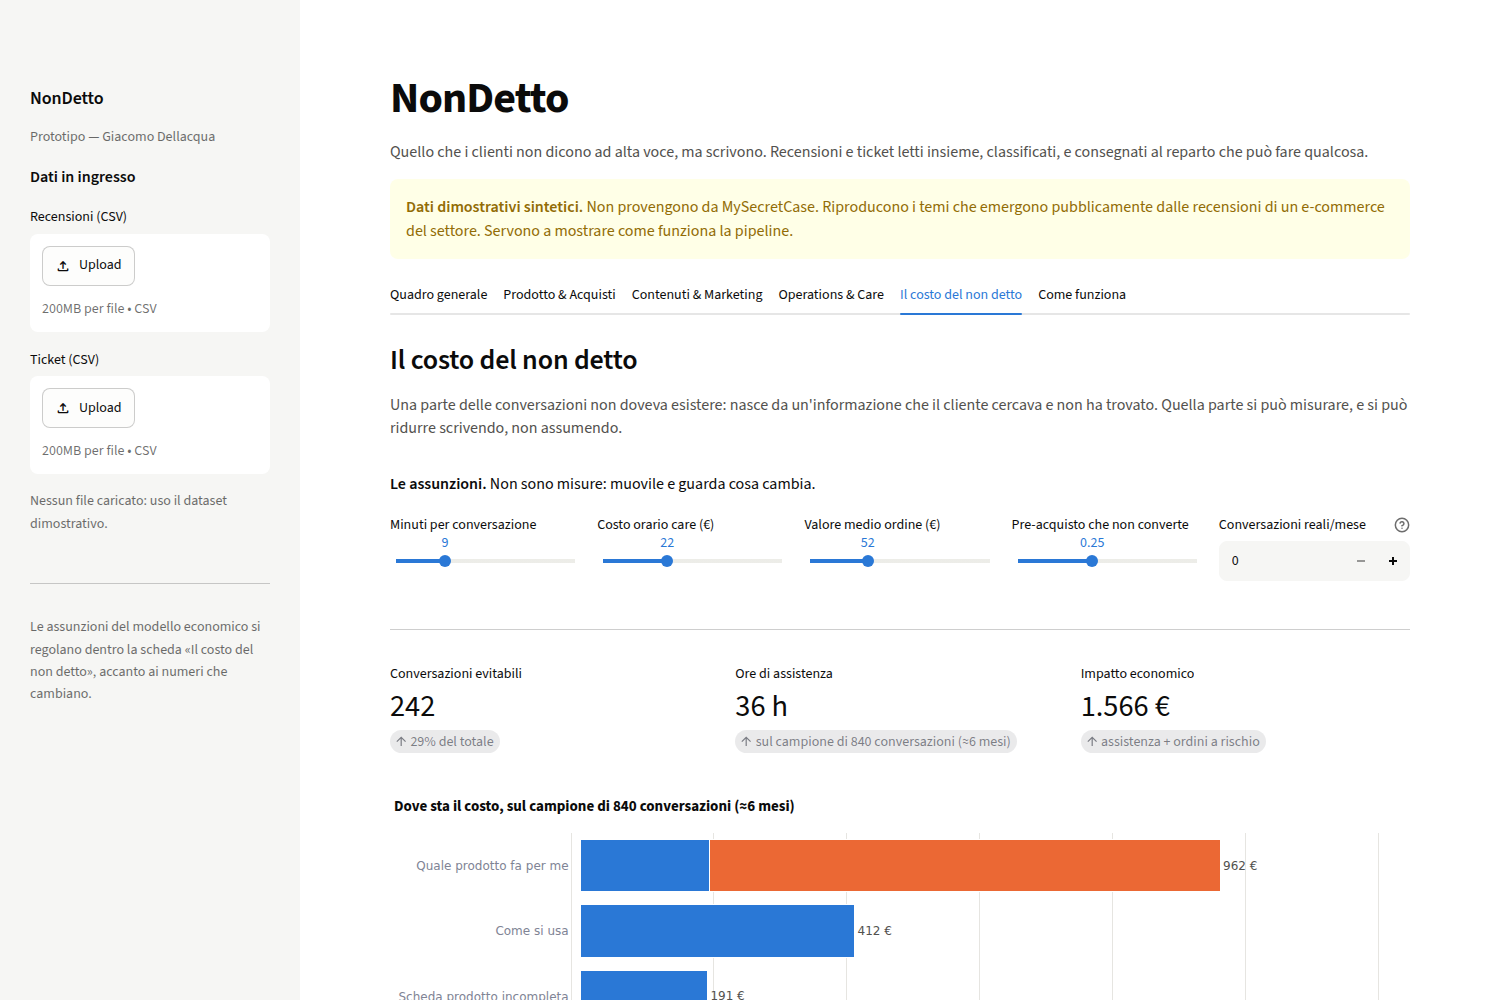
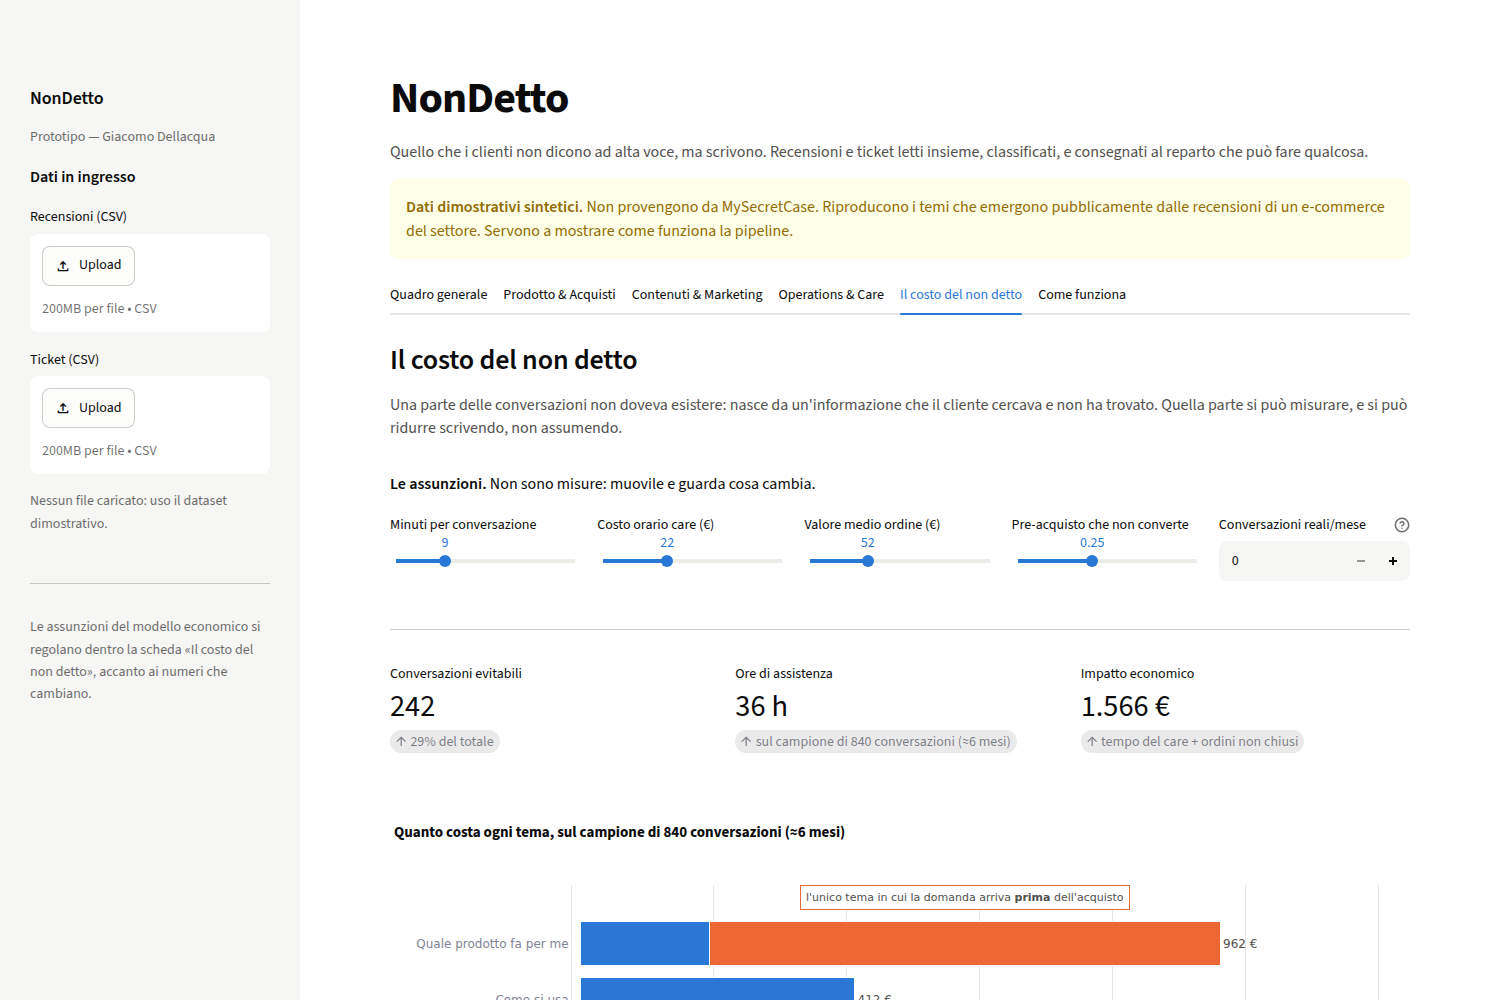
Spiegato dentro il grafico cosa indica il segmento arancione
Compariva su una barra sola, senza dire perche': sembrava un errore.
Ora il segmento porta attaccata la sua spiegazione, la legenda usa
parole intere invece di 'ordini a rischio', e sotto il grafico c'e' il
motivo per cui il tema con meta' delle conversazioni costa il doppio.

Changed region(s): [[0.2453, 0.775, 0.828, 1.0], [0.736, 0.713, 0.8587, 0.744]]

diff --git a/app.py b/app.py
@@ -366,7 +366,7 @@ with t5:
               unita, delta_color="off")
     c3.metric("Impatto economico",
               f"{(costo_t5['costo_care_euro'] + costo_t5['mancato_fatturato_euro']) * fattore:,.0f} €".replace(",", "."),
-              "assistenza + ordini a rischio", delta_color="off")
+              "tempo del care + ordini non chiusi", delta_color="off")
 
     st.markdown("")
     y = per_tema["etichetta"]
@@ -376,31 +376,57 @@ with t5:
 
     fig = go.Figure()
     fig.add_trace(go.Bar(
-        x=assist, y=y, orientation="h", name="Costo di assistenza",
+        x=assist, y=y, orientation="h", name="Tempo che ci mette il customer care",
         marker=dict(color=SERIE[0], line=dict(color="#ffffff", width=1)),
-        hovertemplate="%{y}<br>assistenza: %{x:,.0f} €<extra></extra>"))
+        hovertemplate="%{y}<br>tempo del care: %{x:,.0f} €<extra></extra>"))
     fig.add_trace(go.Bar(
-        x=ordini, y=y, orientation="h", name="Ordini a rischio",
+        x=ordini, y=y, orientation="h", name="Ordini che non si chiudono",
         marker=dict(color=SERIE[1], line=dict(color="#ffffff", width=1)),
         text=[f"{t:,.0f} €".replace(",", ".") for t in totali],
         textposition="outside", textfont=dict(color=INK_2, size=12),
         cliponaxis=False,
-        hovertemplate="%{y}<br>ordini a rischio: %{x:,.0f} €<extra></extra>"))
+        hovertemplate="%{y}<br>ordini non chiusi: %{x:,.0f} €<extra></extra>"))
+
+    # L'arancione compare su una barra sola, e senza una spiegazione sembra un
+    # errore. La spiegazione sta attaccata al segmento.
+    pre = per_tema[per_tema["intento"] == "scelta_preacquisto"]
+    if len(pre):
+        riga = pre.iloc[0]
+        centro = (riga["costo_assistenza"] + riga["ordini_a_rischio"] / 2) * fattore
+        fig.add_annotation(
+            x=centro, y=riga["etichetta"], yshift=46, showarrow=False,
+            text="l'unico tema in cui la domanda arriva <b>prima</b> dell'acquisto",
+            font=dict(color=INK_2, size=11), bgcolor="#ffffff",
+            bordercolor=SERIE[1], borderwidth=1, borderpad=5)
+
     fig.update_layout(barmode="stack",
-                      legend=dict(orientation="h", y=-0.22, x=0,
+                      legend=dict(orientation="h", y=-0.24, x=0,
+                                  traceorder="normal",
                                   font=dict(color=INK_2, size=11)))
     fig.update_xaxes(range=[0, max(totali.max() * 1.25, 1)], tickformat=",.0f",
                      ticksuffix=" €")
-    st.plotly_chart(
-        stile(fig, 320, f"Dove sta il costo, {unita}", legenda=True),
-        use_container_width=True)
+    fig_costo = stile(fig, 380, f"Quanto costa ogni tema, {unita}", legenda=True)
+    # spazio in alto per la nota attaccata al segmento arancione
+    fig_costo.update_layout(margin=dict(l=8, r=24, t=96, b=8))
+    st.plotly_chart(fig_costo, use_container_width=True)
 
     st.markdown(
-        "<p class='nota'>Guarda le due barre in alto. «Quale prodotto fa per me» "
-        "ha metà delle conversazioni di «Come si usa», ma pesa di più: perché "
-        "una domanda prima dell'acquisto non costa solo tempo di assistenza, "
-        "costa un ordine che non si chiude. È questo che decide da dove "
-        "cominciare, non il conteggio.</p>", unsafe_allow_html=True)
+        f"""<p class='nota'>
+        <span style="color:{SERIE[0]}; font-weight:700">■ Blu</span> — le ore che
+        il customer care passa a rispondere, convertite in euro con i due cursori
+        di sinistra.<br>
+        <span style="color:{SERIE[1]}; font-weight:700">■ Arancione</span> — gli
+        ordini che non si chiudono. Compare su un tema solo, e non è un errore:
+        chi chiede <i>come si usa</i> ha già comprato, chi chiede <i>quale prodotto
+        fa per me</i> no. La seconda domanda, se resta senza risposta, può
+        finire in un carrello abbandonato — la prima no.
+        </p>""", unsafe_allow_html=True)
+
+    st.markdown(
+        "<p class='nota'>Ed è per questo che la barra in alto è la più lunga pur "
+        "avendo <b>metà</b> delle conversazioni di quella sotto. Il conteggio da "
+        "solo ti avrebbe mandato a lavorare sul tema sbagliato.</p>",
+        unsafe_allow_html=True)
 
     if volume_reale > 0:
         st.markdown(
